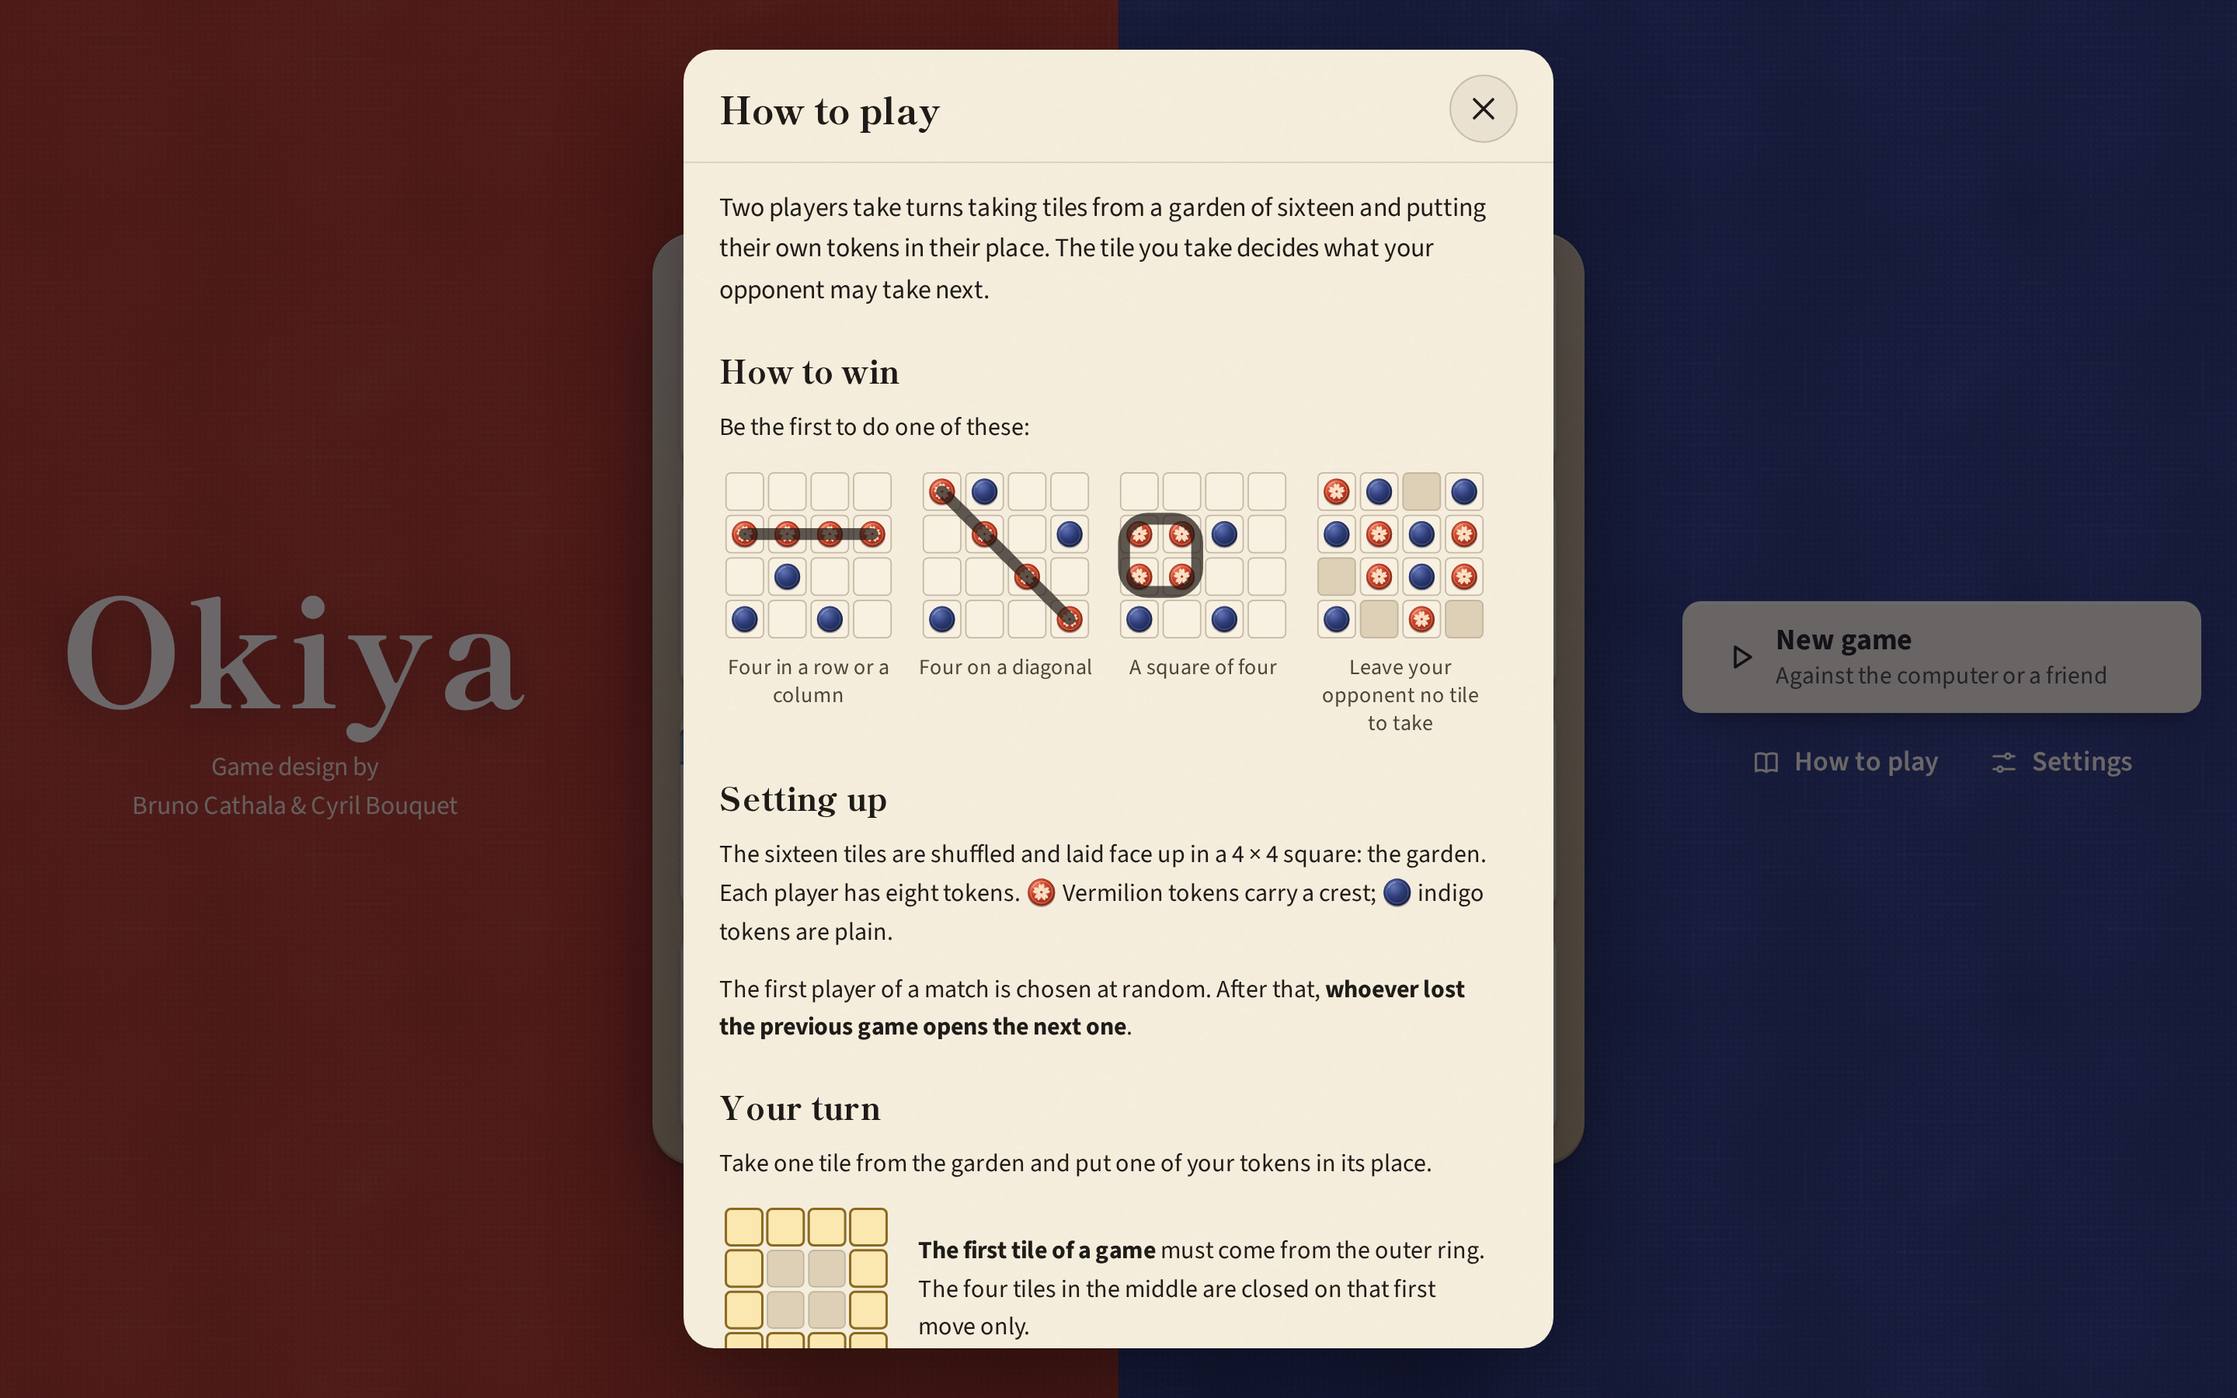
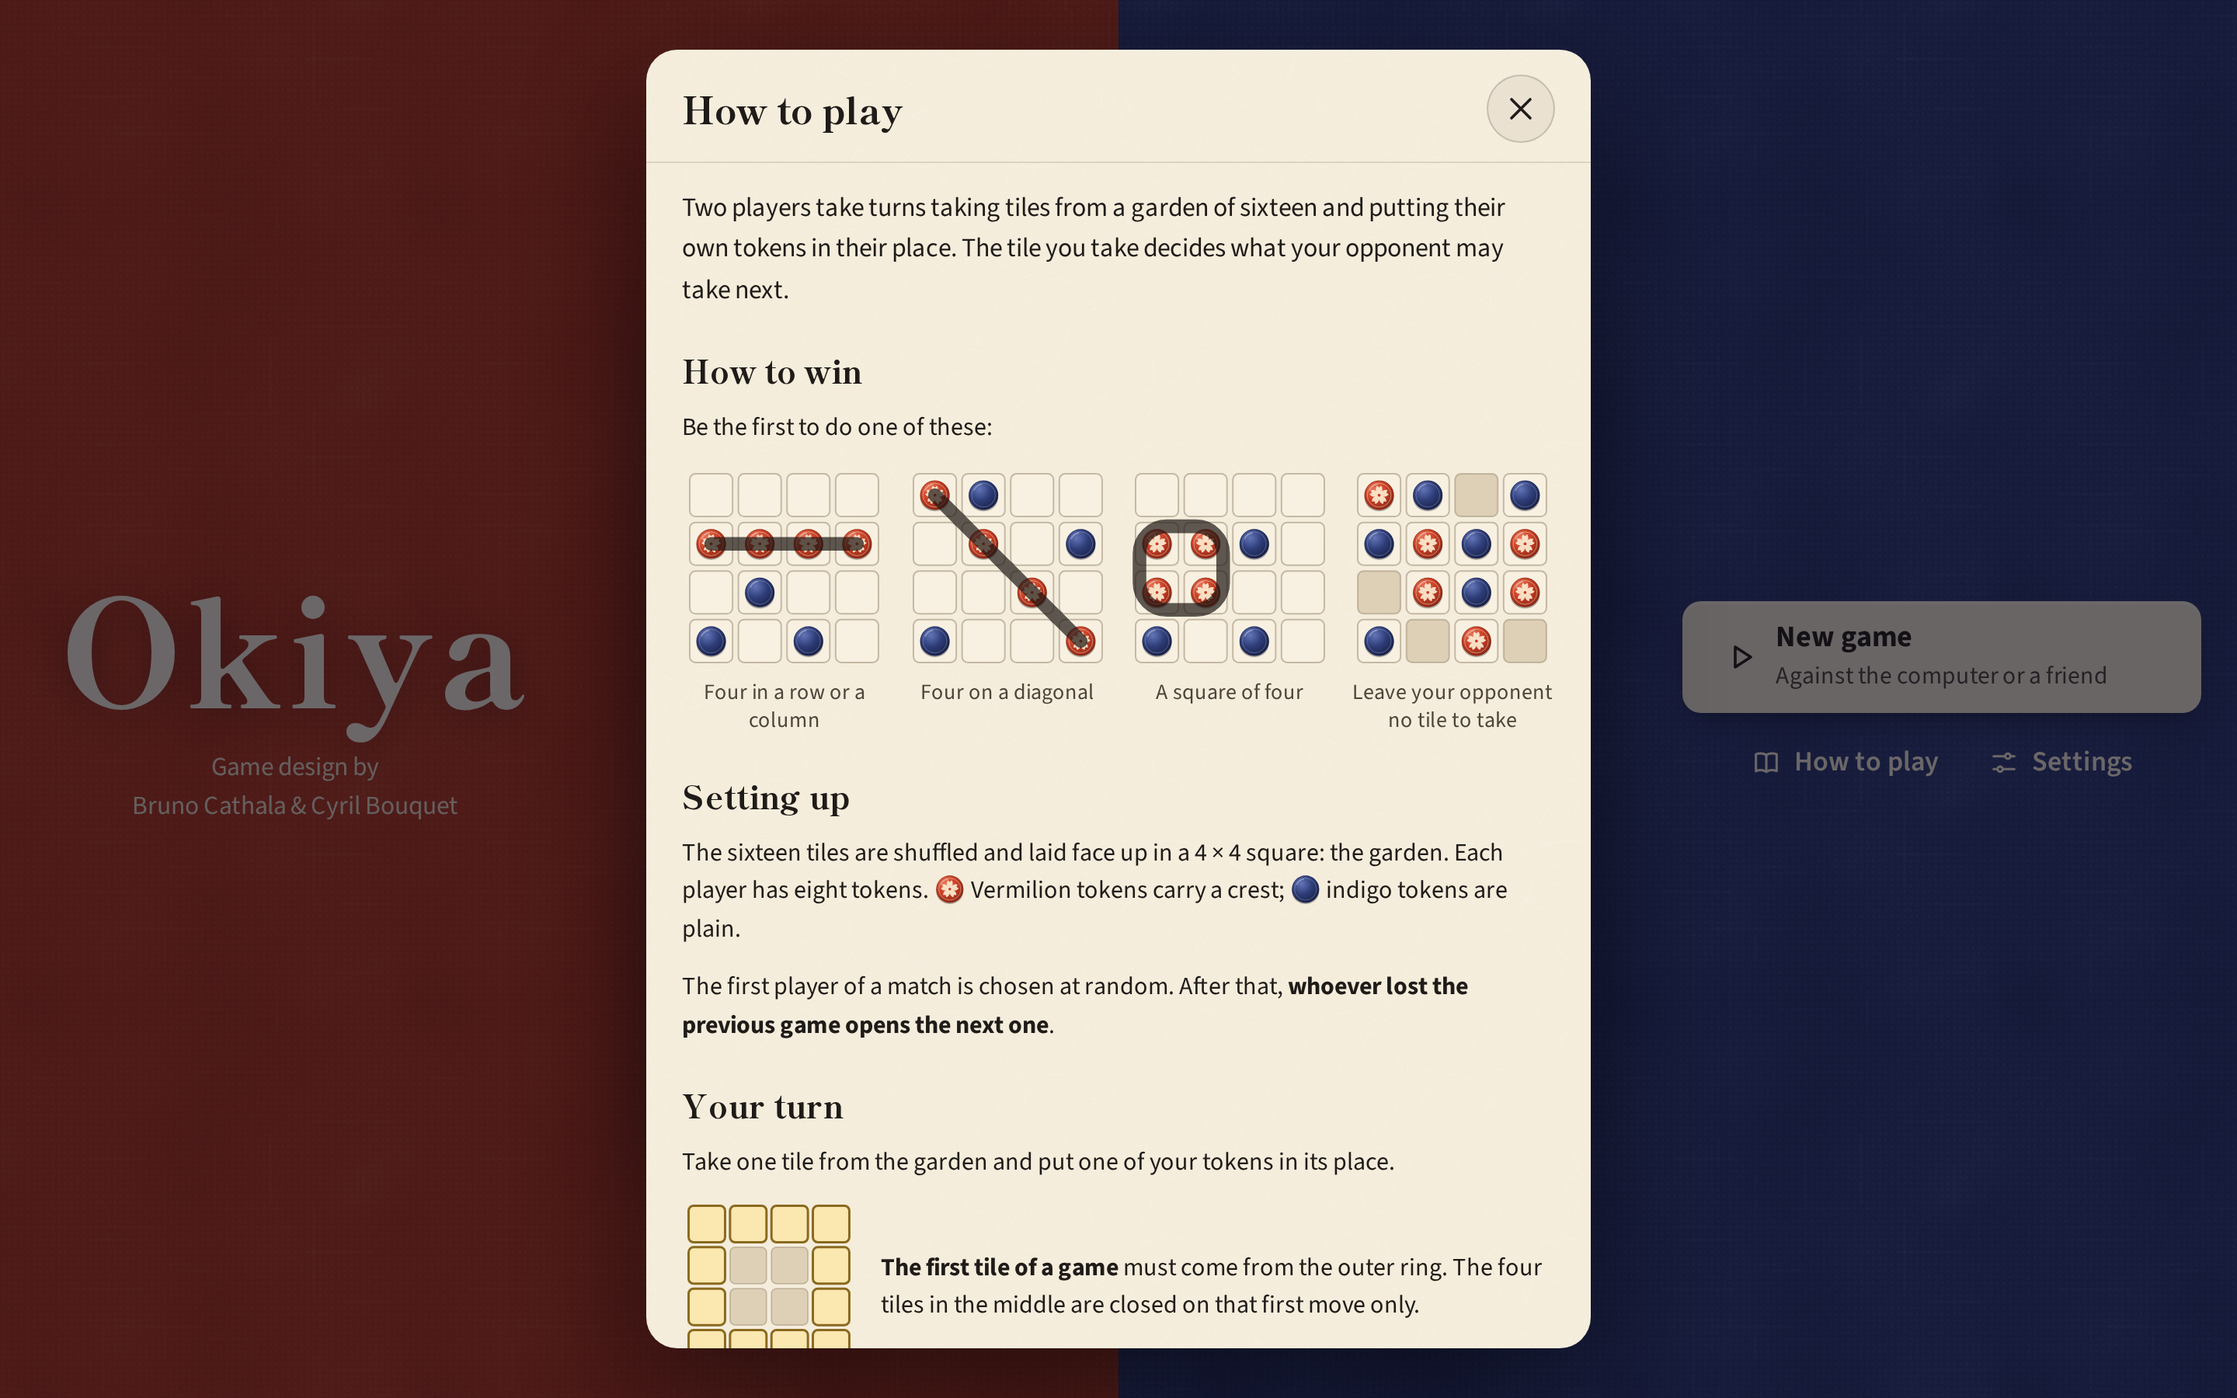
Real-phone findings: no clipped descenders, centred sheets on wide short screens
From the client's test on their phone:
- 'Diogo' lost the bottom of its g: the seat name clips (ellipsis) with a line height shorter than
  Shippori's ascent plus descent. Clipping boxes now hold the whole font box (names 1.5, button
  details 1.45). New e2e: every line's font box inside the clip box on all 11 profiles, with a
  control that fails on the old line height.
- How to play in landscape: sheets are at most 44rem wide and centred; the rules sheet is one
  38rem reading column. Layout test now checks every sheet is centred with title and text on one
  edge.
- The Vercel-header test server binds to 127.0.0.1 only.
Final run: unit 69/69, e2e 283 passed / 0 failed, perf 11/11.

Changed region(s): [[0.2812, 0.0311, 0.7188, 0.9644], [0.7812, 0.4356, 0.8438, 0.4667]]

diff --git a/e2e/glyphs.spec.ts b/e2e/glyphs.spec.ts
@@ -1,0 +1,56 @@
+import { expect, test, type Page } from '@playwright/test';
+import { HOT_SEAT, continueMatch, findGame, openHome, saved, seedMatch } from './helpers';
+
+/**
+ * Text inside a clipping box (names that end in an ellipsis, two-line button details) must never
+ * lose the bottom of a "g" or the top of an "Á". Every line's font box (the font's ascent plus
+ * descent, which holds descenders and accents) has to lie inside the element's clip box. Lines a
+ * two-line clamp hides on purpose are not counted. Geometry, so it holds in every engine.
+ */
+const NAMES: [string, string] = ['Diogo', 'Ágqy Jóy'];
+
+async function clippedLines(page: Page, selector: string): Promise<string[]> {
+  return page.locator(selector).evaluateAll((els) => {
+    const out: string[] = [];
+    for (const el of els) {
+      const box = el.getBoundingClientRect();
+      if (box.height === 0) continue;
+      const range = document.createRange();
+      range.selectNodeContents(el);
+      for (const r of range.getClientRects()) {
+        if (r.height === 0 || r.top >= box.bottom - 1) continue; // a line hidden by the clamp
+        if (r.top < box.top - 0.5 || r.bottom > box.bottom + 0.5) {
+          out.push(`"${el.textContent}": line ${Math.round(r.top)}-${Math.round(r.bottom)} vs box ${Math.round(box.top)}-${Math.round(box.bottom)}`);
+        }
+      }
+    }
+    return out;
+  });
+}
+
+test('player names keep their descenders and accents in the seats', async ({ page }) => {
+  await page.emulateMedia({ reducedMotion: 'reduce' });
+  const g = findGame((s) => s.history.length >= 6, 51);
+  await seedMatch(page, saved({ ...HOT_SEAT, mode: 'sets3', names: NAMES }, [{ tiles: g.tiles, first: g.first, moves: g.moves.slice(0, 2) }]));
+  await continueMatch(page);
+  await page.evaluate(() => document.fonts.ready);
+  await expect(page.locator('.seat-name')).toHaveText(['Ágqy Jóy', 'Diogo']);
+  expect(await clippedLines(page, '.seat-name')).toEqual([]);
+});
+
+test('the Continue and New game details keep their descenders on the home screen', async ({ page }) => {
+  const g = findGame((s) => s.history.length >= 6, 52);
+  await seedMatch(page, saved({ ...HOT_SEAT, mode: 'sets3', names: NAMES }, [{ tiles: g.tiles, first: g.first, moves: g.moves.slice(0, 2) }]));
+  await openHome(page);
+  await page.evaluate(() => document.fonts.ready);
+  expect(await clippedLines(page, '.btn.big .btn-sub')).toEqual([]);
+});
+
+test('the check itself catches a clipped descender (control: the old tight line height)', async ({ page }) => {
+  const g = findGame((s) => s.history.length >= 6, 51);
+  await seedMatch(page, saved({ ...HOT_SEAT, mode: 'sets3', names: NAMES }, [{ tiles: g.tiles, first: g.first, moves: g.moves.slice(0, 2) }]));
+  await continueMatch(page);
+  await page.evaluate(() => document.fonts.ready);
+  await page.addStyleTag({ content: '.seat-name { line-height: 1.15 !important; padding-block: 0 !important; }' });
+  expect((await clippedLines(page, '.seat-name')).length).toBeGreaterThan(0);
+});

diff --git a/src/ui/styles.css b/src/ui/styles.css
@@ -344,7 +344,9 @@ button:disabled { cursor: default; }
 .seat-name {
   font-family: var(--font-display);
   font-size: 1.375em;
-  line-height: 1.15;
+  /* The name clips (ellipsis), so its line box must hold the font's full ascent and descent:
+     Shippori's deep descenders (g, j, p, q, y) and accents need 1.5. */
+  line-height: 1.5;
   letter-spacing: 0.01em;
   min-width: 0;
   flex: 1 1 5em;
@@ -455,7 +457,7 @@ button:disabled { cursor: default; }
 .btn .btn-title { display: block; font-size: 1.0625em; }
 .btn .btn-sub { display: block; font-weight: 400; font-size: 0.875em; opacity: 0.8; margin-top: 2px; }
 .btn.big > span { min-width: 0; }
-.btn.big .btn-sub { display: -webkit-box; -webkit-line-clamp: 2; -webkit-box-orient: vertical; overflow: hidden; }
+.btn.big .btn-sub { display: -webkit-box; -webkit-line-clamp: 2; -webkit-box-orient: vertical; overflow: hidden; line-height: 1.45; }
 
 /* ==========================================================================
    Home
@@ -623,10 +625,14 @@ dialog.sheet {
   color: var(--ink);
   max-width: none;
   max-height: none;
-  width: 100%;
-  margin: auto 0 0;
+  /* A bottom sheet, never wider than a comfortable reading column: on a phone held sideways it
+     sits centred instead of stretching edge to edge with its text pushed to the left. */
+  width: min(100%, 44rem);
+  margin: auto auto 0;
   overflow: visible;
 }
+/* The rules sheet is as wide as a comfortable line of text, so its title and text share one edge. */
+dialog.sheet.sheet-rules { width: min(100%, 38rem); }
 dialog.sheet::backdrop { background: rgba(12, 10, 22, 0.6); }
 dialog.sheet[open] { animation: sheet-up 0.32s var(--ease-out); }
 @keyframes sheet-up { from { transform: translateY(24px); opacity: 0; } to { transform: none; opacity: 1; } }
@@ -672,7 +678,7 @@ dialog.sheet[open] { animation: sheet-up 0.32s var(--ease-out); }
   dialog.sheet { margin: auto; width: min(560px, 100vw - 48px); }
   .sheet-panel { border-radius: 20px; max-height: min(calc(var(--vh) - 64px), 860px); box-shadow: 0 30px 80px rgba(0, 0, 0, 0.45); }
   .sheet-body { padding-bottom: 24px; }
-  .sheet-rules { width: min(680px, 100vw - 48px); }
+  .sheet-rules { width: min(38rem, 100vw - 48px); }
   .sheet-confirm, .sheet-menu { width: min(420px, 100vw - 48px); }
 }
 
@@ -777,7 +783,7 @@ dialog.sheet[open] { animation: sheet-up 0.32s var(--ease-out); }
 
 /* ---------- rules ---------- */
 
-.rules { display: flex; flex-direction: column; gap: 12px; font-size: 1rem; line-height: 1.55; max-width: 62ch; }
+.rules { display: flex; flex-direction: column; gap: 12px; font-size: 1rem; line-height: 1.55; }
 .rules h3 { font-family: var(--font-display); font-size: 1.3rem; margin-top: 14px; line-height: 1.2; }
 .rules-lede { font-size: 1.0625rem; }
 .rules-figs { display: grid; grid-template-columns: repeat(2, minmax(0, 1fr)); gap: 12px; }

diff --git a/e2e/layout.spec.ts b/e2e/layout.spec.ts
@@ -43,6 +43,15 @@ async function checkLayout(page: Page, label: string): Promise<void> {
       const b = el.getBoundingClientRect();
       if (b.left < -1 || b.top < -1 || b.right > vw + 1 || b.bottom > vh + 1) out.push(`${name(el)} leaves the viewport (${Math.round(b.left)},${Math.round(b.top)},${Math.round(b.right)},${Math.round(b.bottom)} in ${vw}x${vh})`);
     }
+    if (dialog) {
+      // A sheet sits centred, and its title starts on the same edge as its text.
+      const panel = dialog.querySelector('.sheet-panel')!.getBoundingClientRect();
+      const gap = Math.abs(panel.left - (vw - panel.right));
+      if (gap > 2) out.push(`sheet is off-centre by ${Math.round(gap / 2)}px`);
+      const title = dialog.querySelector('.sheet-title')!.getBoundingClientRect();
+      const first = dialog.querySelector('.sheet-body > *')!.getBoundingClientRect();
+      if (Math.abs(title.left - first.left) > 1) out.push(`sheet title starts at ${Math.round(title.left)}, its text at ${Math.round(first.left)}`);
+    }
     const board = document.querySelector('.game .board')?.getBoundingClientRect();
     const hit = (a: DOMRect, b: DOMRect) => a.left < b.right - 1 && a.right > b.left + 1 && a.top < b.bottom - 1 && a.bottom > b.top + 1;
     if (board && !dialog) {

diff --git a/playwright.config.ts b/playwright.config.ts
@@ -17,7 +17,7 @@ export default defineConfig({
   webServer: [
     { command: 'npx vite preview --port 4173 --strictPort', url: 'http://localhost:4173/', reuseExistingServer: true },
     // dist/ under the exact headers vercel.json declares (e2e/vercel.spec.ts).
-    { command: 'npx tsx scripts/serve-vercel.ts 4180', url: 'http://localhost:4180/', reuseExistingServer: true },
+    { command: 'npx tsx scripts/serve-vercel.ts 4180', url: 'http://127.0.0.1:4180/', reuseExistingServer: true },
   ],
   projects: [
     { name: 'iphone-se', use: { ...devices['iPhone SE'], browserName: 'webkit' } },

diff --git a/scripts/serve-vercel.ts b/scripts/serve-vercel.ts
@@ -27,4 +27,5 @@ createServer((req, res) => {
   for (const r of rules) if (r.re.test(path)) for (const h of r.headers) res.setHeader(h.key, h.value);
   res.setHeader('Content-Type', TYPES[extname(file)] ?? 'application/octet-stream');
   res.end(readFileSync(file));
-}).listen(port, () => console.log(`dist/ with vercel.json headers on http://localhost:${port}/`));
+  // Loopback only: a test server, never reachable from the network.
+}).listen(port, '127.0.0.1', () => console.log(`dist/ with vercel.json headers on http://127.0.0.1:${port}/`));

diff --git a/e2e/vercel.spec.ts b/e2e/vercel.spec.ts
@@ -1,7 +1,7 @@
 import { expect, test } from '@playwright/test';
 
 /** The page under the exact headers vercel.json sends (scripts/serve-vercel.ts on port 4180). */
-test.use({ baseURL: 'http://localhost:4180/' });
+test.use({ baseURL: 'http://127.0.0.1:4180/' });
 
 test('the Vercel security headers and CSP allow everything the game does', async ({ page, browserName }) => {
   test.skip(browserName !== 'chromium' && browserName !== 'webkit', 'Chromium and WebKit cover the CSP engines');

diff --git a/docs/PROCESS.md b/docs/PROCESS.md
@@ -98,6 +98,8 @@ Answers the client gave during the session (structured questions):
 | Larger default text could push seats over the garden | 20 px root-size e2e on every profile | Layout reserves in rem; garden shrinks instead. |
 | Gold focus ring on paper (sheets) at 1.6:1, placeholder text at 3.4:1 | The impeccable documenter, deriving DESIGN.md from the build | Focus is vermilion on paper and ink on the garden (both above 3:1); placeholder in ink-3 (5.3:1). |
 | The UI face mis-spaced letters at about 14 px | Screenshots, then a font specimen | Source Sans 3 replaces Zen Kaku Gothic New (see Decisions). |
+| The "g" of a player called **Diogo** was cut off | The client, on a real phone | Names end in an ellipsis, so their box clips; its line height (1.15) was shorter than Shippori's ascent plus descent. Clipping boxes now use a line height that holds the whole font box (1.5 for names, 1.45 for button details). A geometric e2e test checks every profile, and a control proves it catches the old value. |
+| **How to play** text not centred in landscape | The client, on a real phone | On short, wide screens the bottom sheet spanned the screen with its text on the left. Sheets are at most 44rem wide and centred; the rules sheet is one reading column (38rem) so title and text share an edge. Checked on every profile by the layout test. |
 
 ## Verification (final run)
 
@@ -105,9 +107,12 @@ Answers the client gave during the session (structured questions):
 |---|---|---|
 | Unit tests (engine, AI, match flow, rules-page diagrams) | `npm test` | 4 files, 69 tests, all passing |
 | Type-check and production build | `npm run build` | passes; service worker generated |
-| End-to-end, 11 device profiles: iPhone SE 320 × 568, iPhone SE (3rd gen) 375 × 553, iPhone 15 393 × 659 and landscape 734 × 343 (WebKit, Safari's visible area); Pixel 7 412 × 839 and Android 360 × 640 (Chromium); iPad 810 × 1080 and 1080 × 810 (WebKit); desktop Chrome 1440 × 900, Firefox 1280 × 800, Safari 1920 × 1080 | `npm run e2e` | **250 passed, 0 failed**, 25 skipped by design (engine-scoped checks); perf pass 11 of 11. Per profile: `docs/evidence/e2e.txt` |
+| End-to-end, 11 device profiles: iPhone SE 320 × 568, iPhone SE (3rd gen) 375 × 553, iPhone 15 393 × 659 and landscape 734 × 343 (WebKit, Safari's visible area); Pixel 7 412 × 839 and Android 360 × 640 (Chromium); iPad 810 × 1080 and 1080 × 810 (WebKit); desktop Chrome 1440 × 900, Firefox 1280 × 800, Safari 1920 × 1080 | `npm run e2e` | **283 passed, 0 failed**, 25 skipped by design (engine-scoped checks); perf pass 11 of 11. Per profile: `docs/evidence/e2e.txt` |
 | Layout invariants on every screen state and profile: no page scroll, nothing off-screen, seats never on the garden or the top bar, targets ≥ 44 px, no overflowing text | `e2e/layout.spec.ts` | included above |
 | Large default text (20 px root) on every profile | `e2e/bigtext.spec.ts` | included above |
+| Text in clipping boxes keeps its descenders and accents ("Diogo", "Ágqy Jóy"): every line's font box inside the clip box, with a control that fails on the old line height | `e2e/glyphs.spec.ts` | included above |
+| Every sheet centred, title and text on one edge, on every profile | `e2e/layout.spec.ts` | included above |
+| Real phone | the client, on their own phone over the local network | "Looks ok mostly"; two findings, both fixed (below) |
 | Offline: after one visit a game against the computer plays with the network off | `e2e/ship.spec.ts` | passes (Chromium) |
 | Accessibility, axe-core WCAG 2.2 AA rules on home, setup, rules, settings, game, menu | `e2e/ship.spec.ts` | 0 violations |
 | Lighthouse 12.6, mobile and desktop, production build | see `docs/evidence/lighthouse.txt` | mobile 99 / 100 / 100 / 100 (performance, accessibility, best practices, SEO; first paint 1.7 s on simulated slow 4G, 147 KB transferred); desktop 100 / 100 / 100 / 100 |
@@ -176,12 +181,12 @@ changes the code:
   Importing the repository in Vercel (or `vercel --prod`) is the remaining step.
 - **Share image URL.** `index.html` points `og:image` at `./og-image.jpg`; social scrapers want an
   absolute URL, so set it to the production domain once it exists.
-- **Physical devices.** No phones or tablets are attached to this environment, so device checks
-  ran in emulation: Safari's engine (WebKit), Chromium and Firefox with real phone and tablet
-  viewports, pixel densities, touch input and Safari's toolbar-reduced heights, 11 profiles in
-  all. The usual pre-launch smoke test on the client's own phones remains their QA step; things
-  only hardware shows are the silent switch muting sound, the home-screen install and the wake
-  lock.
+- **Physical devices.** No phones are attached to this environment, so the systematic device
+  checks ran in emulation (11 profiles in WebKit, Chromium and Firefox). The client then played
+  the production build on their own phone, served on the local network for the test: "looks ok
+  mostly", with two findings (the clipped "g", the landscape rules sheet), both fixed and now
+  covered by tests. The test host was closed afterwards, as asked. Offline play, the home-screen
+  install and the wake lock need https, so they only switch on once the site is deployed.
 - **Sound on iOS** follows the ringer switch, as Web Audio does in Safari.
 - **Font licences.** Both typefaces are OFL and their licence texts ship with the site. Source Sans
   3 carries the Reserved Font Name "Source"; the files are the unmodified Google Fonts web subsets
